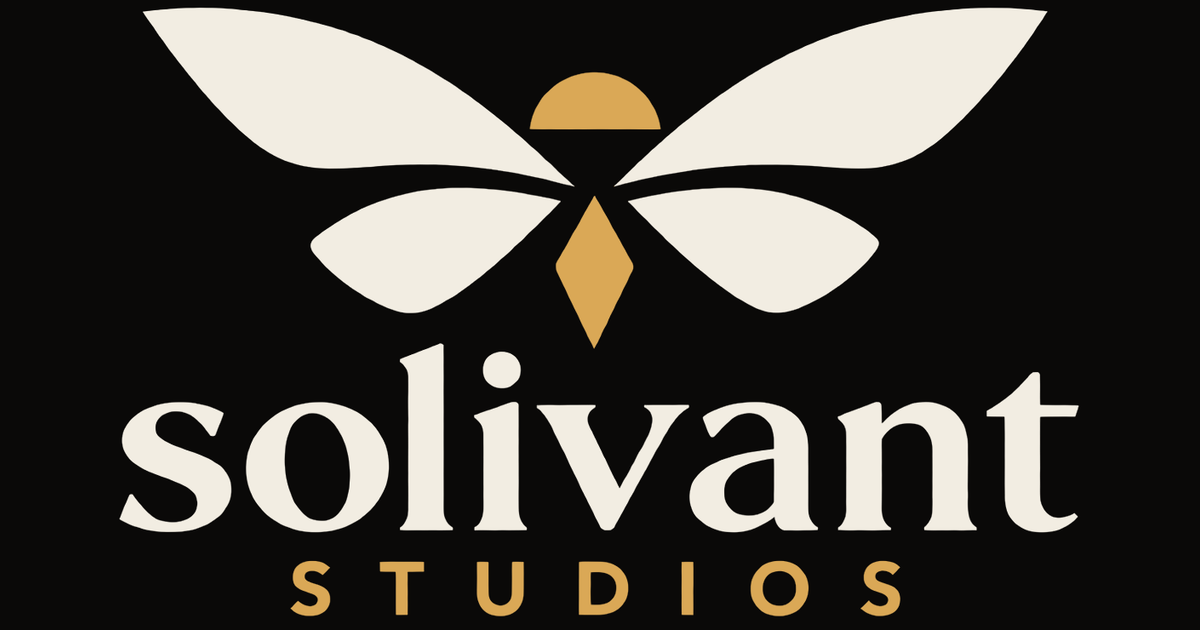
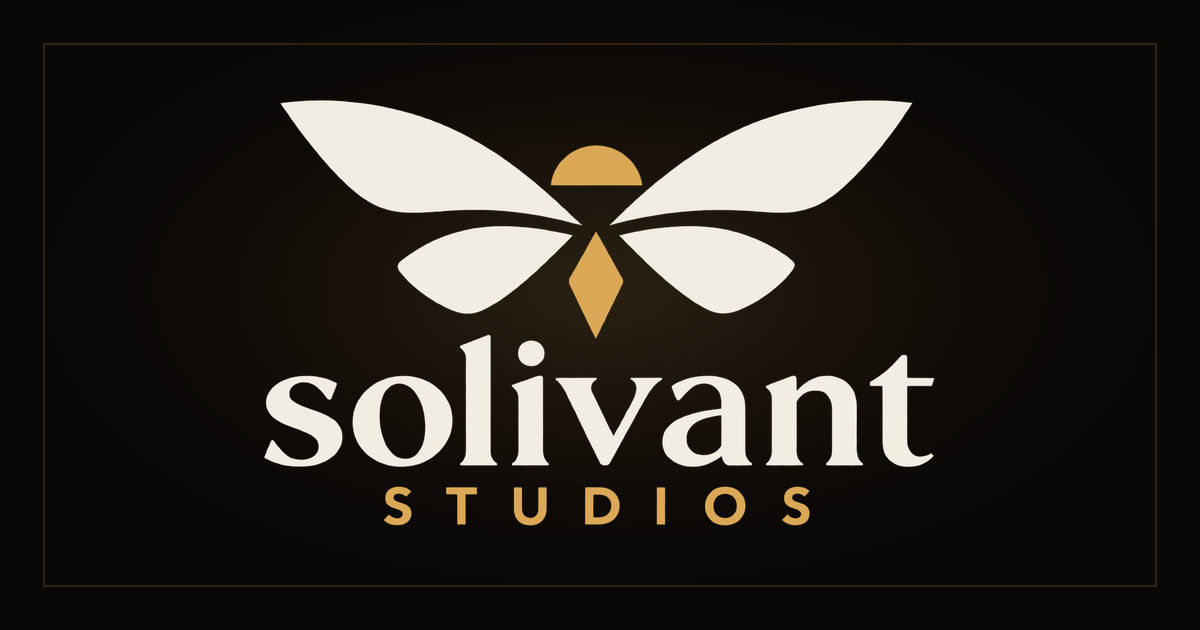
Self-host Cinzel, frame social card, refine Byzantium lede, and add plug-in social slots

Changed region(s): [[0.0308, 0.0, 0.9558, 0.8444], [0.0308, 0.8746, 0.9558, 0.9952]]

diff --git a/src/styles/global.css b/src/styles/global.css
@@ -1,10 +1,17 @@
+@font-face {
+  font-family: "Cinzel";
+  font-style: normal;
+  font-weight: 400;
+  font-display: swap;
+  src: url("/fonts/cinzel-latin-400.woff2") format("woff2");
+}
 :root {
   color-scheme: dark;
   --background: #090807;
   --surface: #12100e;
   --text: #f3efe6;
   --muted: #a69e92;
-  --sage: #ebe4d5;
+  --ivory: #ebe4d5;
   --gold: #d8a650;
   --gold-bright: #e8bc6a;
   --line: #29221b;
@@ -46,10 +53,10 @@ button { cursor: pointer; }
 a { color: inherit; text-underline-offset: .25em; }
 a:hover { text-decoration-thickness: 2px; }
 h1, h2, h3, p, figure { margin: 0; }
-h1, h2, h3 { font-weight: 400; line-height: 1.1; text-wrap: balance; font-kerning: normal; font-variant-ligatures: common-ligatures; }
-h1, h2 { font-family: var(--serif); letter-spacing: -.025em; }
-h1 { font-size: clamp(2.35rem, 4.2vw, 3.6rem); }
-h2 { font-size: clamp(1.75rem, 2.8vw, 2.45rem); }
+h1, h2, h3 { font-weight: 400; line-height: 1.12; text-wrap: balance; font-kerning: normal; font-variant-ligatures: common-ligatures; }
+h1, h2 { font-family: var(--serif); letter-spacing: .01em; }
+h1 { font-size: clamp(2.15rem, 3.8vw, 3.35rem); }
+h2 { font-size: clamp(1.6rem, 2.5vw, 2.2rem); }
 h3 { font-size: 1.35rem; }
 h1 em, h2 em { font-weight: 400; }
 ::selection { color: var(--background); background: var(--gold); }
@@ -82,8 +89,8 @@ h1 em, h2 em { font-weight: 400; }
   gap: 1.1rem;
   min-height: 3rem;
   padding: .75rem 1.4rem;
-  border: 1px solid var(--sage);
-  background: var(--sage);
+  border: 1px solid var(--ivory);
+  background: var(--ivory);
   color: #090807;
   font-size: .78rem;
   font-weight: 600;
@@ -153,9 +160,9 @@ h1 em, h2 em { font-weight: 400; }
   padding-block: clamp(3rem, 5vw, 4.5rem) clamp(2rem, 3.5vw, 3rem);
 }
 .hero h1 {
-  font-size: clamp(2.5rem, 4.6vw, 4rem);
-  line-height: 1.04;
-  letter-spacing: -.03em;
+  font-size: clamp(2.15rem, 4.2vw, 3.6rem);
+  line-height: 1.08;
+  letter-spacing: .015em;
   margin-top: .65rem;
 }
 
@@ -165,13 +172,13 @@ h1 em, h2 em { font-weight: 400; }
   --project-ember: rgba(145, 48, 22, 0.24);
   --project-ink: #f0d5a3;
 }
-[data-tone="sage"] {
+[data-tone="slate"] {
   --project-bg: #0c131a;
   --project-glow: rgba(132, 184, 222, 0.22);
   --project-ember: rgba(28, 62, 92, 0.22);
   --project-ink: #cce0f0;
 }
-[data-tone="silver"] {
+[data-tone="emerald"] {
   --project-bg: #081510;
   --project-glow: rgba(82, 196, 138, 0.25);
   --project-ember: rgba(18, 88, 56, 0.24);
@@ -222,8 +229,8 @@ h1 em, h2 em { font-weight: 400; }
 .flagship-spotlight__title {
   position: relative;
   z-index: 1;
-  font: 400 clamp(2.25rem, 4.5vw, 3.8rem)/1.02 var(--serif);
-  letter-spacing: -.03em;
+  font: 400 clamp(2rem, 4.1vw, 3.45rem)/1.05 var(--serif);
+  letter-spacing: .025em;
   text-transform: uppercase;
   margin-top: auto;
 }
@@ -234,8 +241,8 @@ h1 em, h2 em { font-weight: 400; }
   justify-content: center;
 }
 .flagship-spotlight__copy h2 {
-  font: 400 clamp(1.75rem, 2.6vw, 2.35rem)/1.12 var(--serif);
-  letter-spacing: -.025em;
+  font: 400 clamp(1.6rem, 2.4vw, 2.15rem)/1.15 var(--serif);
+  letter-spacing: .015em;
   margin-top: .6rem;
 }
 
@@ -247,8 +254,7 @@ h1 em, h2 em { font-weight: 400; }
 .section-heading { display: flex; justify-content: space-between; align-items: end; gap: 2rem; margin-bottom: 2.25rem; }
 .section-heading > p { color: var(--muted); font-size: .9rem; max-width: 26rem; }
 
-.project-grid { display: grid; grid-template-columns: repeat(2, minmax(0, 1fr)); gap: 2.75rem 1.75rem; }
-.project-grid--upcoming { grid-template-columns: repeat(3, minmax(0, 1fr)); gap: 2.25rem 1.5rem; }
+.project-grid { display: grid; grid-template-columns: repeat(3, minmax(0, 1fr)); gap: 2.25rem 1.5rem; }
 .project-card { min-width: 0; }
 .project-card__visual {
   position: relative;
@@ -309,14 +315,14 @@ h1 em, h2 em { font-weight: 400; }
 }
 .project-card__display {
   display: block;
-  font: 400 clamp(1.5rem, 2.2vw, 2.3rem)/1.08 var(--serif);
-  letter-spacing: -.025em;
+  font: 400 clamp(1.4rem, 2vw, 2.1rem)/1.08 var(--serif);
+  letter-spacing: .015em;
   white-space: nowrap;
   margin: auto 0 0;
 }
-[data-tone="ochre"] .project-card__display { text-transform: uppercase; letter-spacing: -.02em; }
-[data-tone="sage"] .project-card__display { font-family: ui-monospace, "SFMono-Regular", Consolas, monospace; font-size: clamp(1.4rem, 2vw, 2.1rem); letter-spacing: -.05em; }
-[data-tone="silver"] .project-card__display { font-style: italic; }
+[data-tone="ochre"] .project-card__display { text-transform: uppercase; letter-spacing: .03em; }
+[data-tone="slate"] .project-card__display { font-family: ui-monospace, "SFMono-Regular", Consolas, monospace; font-size: clamp(1.4rem, 2vw, 2.1rem); letter-spacing: -.05em; }
+[data-tone="emerald"] .project-card__display { font-family: "Iowan Old Style", "Palatino Linotype", "Book Antiqua", Palatino, Georgia, serif; font-style: italic; font-size: clamp(1.55rem, 2.25vw, 2.3rem); letter-spacing: -.01em; }
 
 .page-header { padding-block: clamp(3rem, 5.5vw, 5rem) clamp(2.25rem, 4vw, 3.25rem); }
 .page-header .lede { margin-top: 1.25rem; }
@@ -357,8 +363,8 @@ h1 em, h2 em { font-weight: 400; }
 .project-title-panel__name {
   position: relative;
   z-index: 1;
-  font: 400 clamp(2.1rem, 5vw, 4.25rem)/1.04 var(--serif);
-  letter-spacing: -.035em;
+  font: 400 clamp(1.95rem, 4.6vw, 3.9rem)/1.06 var(--serif);
+  letter-spacing: .025em;
   white-space: nowrap;
   margin-block: 1.75rem;
 }
@@ -379,6 +385,7 @@ h1 em, h2 em { font-weight: 400; }
 .project-cover img { width: 100%; border: 1px solid var(--line); }
 .project-cover figcaption, .gallery figcaption { font-size: .8rem; color: var(--muted); padding-top: .75rem; }
 .project-overview { display: grid; grid-template-columns: 1.4fr .7fr; gap: clamp(2.5rem, 6vw, 5.5rem); }
+.project-overview .lede { margin-top: 1rem; }
 .project-facts { margin: 0; padding: clamp(1.25rem, 2.2vw, 1.75rem); background: var(--surface); border: 1px solid var(--line); align-self: start; }
 .project-facts > div { padding-block: .8rem; border-bottom: 1px solid var(--line); }
 .project-facts > div:first-child { padding-top: 0; }
@@ -456,18 +463,41 @@ h1 em, h2 em { font-weight: 400; }
 .footer-wordmark { justify-self: start; width: 7.5rem; max-width: 100%; }
 .footer-wordmark img { height: auto; object-fit: contain; }
 .footer-top > p { color: var(--muted); font-size: .85rem; }
+.footer-links { display: flex; flex-direction: column; align-items: end; gap: .65rem; }
 .footer-top nav { display: flex; justify-content: end; flex-wrap: wrap; gap: .5rem 1.5rem; }
 .footer-top nav a { display: inline-flex; align-items: center; min-height: 2.75rem; font-size: .76rem; text-transform: uppercase; letter-spacing: .1em; text-decoration: none; }
 .footer-top nav a:hover { color: var(--gold); }
+.social-links { display: flex; flex-wrap: wrap; gap: .55rem; list-style: none; margin: 0; padding: 0; }
+.social-links--list { margin-top: 1rem; gap: .65rem; }
+.social-link {
+  display: inline-flex;
+  align-items: center;
+  justify-content: center;
+  gap: .55rem;
+  min-height: 2.5rem;
+  min-width: 2.5rem;
+  border: 1px solid var(--line);
+  background: rgba(255, 255, 255, 0.015);
+  color: var(--muted);
+  font-size: .72rem;
+  text-transform: uppercase;
+  letter-spacing: .1em;
+  text-decoration: none;
+  transition: color .2s, border-color .2s, background .2s;
+}
+.social-links--list .social-link { padding: .45rem .85rem; }
+.social-link:hover { color: var(--gold); border-color: var(--gold); background: rgba(216, 166, 80, 0.08); }
+.social-link__icon { width: 1rem; height: 1rem; flex-shrink: 0; }
 .footer-bottom { display: flex; flex-wrap: wrap; gap: .75rem 1.75rem; align-items: center; padding-block: 1.15rem; border-top: 1px solid var(--line); color: var(--muted); font-size: .7rem; }
 .footer-bottom p { margin-right: auto; }
 .footer-bottom a { display: inline-flex; align-items: center; gap: .75rem; min-height: 2.75rem; text-decoration: none; }
 
 @media (max-width: 64rem) {
-  .flagship-spotlight, .project-grid--upcoming { grid-template-columns: 1fr; }
+  .flagship-spotlight, .project-grid { grid-template-columns: 1fr; }
   .flagship-spotlight__visual { min-height: 17rem; border-right: 0; border-bottom: 1px solid rgba(216, 166, 80, 0.2); }
   .footer-top { grid-template-columns: 1fr 1fr; }
-  .footer-top nav { grid-column: 1 / -1; justify-content: start; }
+  .footer-links { grid-column: 1 / -1; align-items: start; }
+  .footer-top nav { justify-content: start; }
 }
 @media (max-width: 48rem) {
   .hero { padding-block: 2.5rem 2rem; }
@@ -488,14 +518,14 @@ h1 em, h2 em { font-weight: 400; }
   .project-grid, .gallery { grid-template-columns: 1fr; }
   .project-card__visual { aspect-ratio: 16/10; }
   .project-card__type { padding: 1.25rem; }
-  .project-card__display { font-size: clamp(1.65rem, 7vw, 2.5rem); }
-  [data-tone="sage"] .project-card__display { font-size: clamp(1.55rem, 6.5vw, 2.3rem); }
+  .project-card__display { font-size: clamp(1.5rem, 6.5vw, 2.3rem); }
+  [data-tone="slate"] .project-card__display { font-size: clamp(1.45rem, 6.2vw, 2.2rem); }
   .footer-top { grid-template-columns: 1fr; padding-block: 2.5rem; }
-  .footer-top nav { grid-column: auto; }
+  .footer-links { grid-column: auto; }
   .footer-bottom p { width: 100%; }
   .project-title-panel__top, .project-title-panel p { flex-direction: column; gap: .25rem; }
   .project-title-panel p span { text-align: left; }
-  .project-title-panel__name { font-size: clamp(1.75rem, 7.5vw, 3rem); }
+  .flagship-spotlight__title, .project-title-panel__name { font-size: clamp(1.45rem, 6.8vw, 2.75rem); }
 }
 @media (prefers-reduced-motion: reduce) {
   html { scroll-behavior: auto; }

diff --git a/src/data/projects.ts b/src/data/projects.ts
@@ -8,8 +8,9 @@ export type Project = {
   title: string;
   workingTitle: boolean;
   status: "In development" | "Upcoming" | "Coming soon" | "Available now";
-  tone: "ochre" | "sage" | "silver" | "clay";
+  tone: "ochre" | "slate" | "clay" | "emerald";
   summary?: string;
+  lede?: string;
   description?: string[];
   platforms?: string[];
   release?: string;
@@ -26,14 +27,21 @@ export const projects: Project[] = defineProjects([
     slug: "byzantium", title: "Byzantium", workingTitle: false,
     status: "In development", tone: "ochre",
     summary: "Around the year 1000, Constantinople is the greatest city in the Christian world, but the Roman Empire is a shadow of its former self. Engulfed in internal struggle and looming threats from outside, the emperor himself has called upon you to serve. For Byzantium.",
+    lede: "Set across the contested frontiers of the Eastern Roman Empire at the turn of the first millennium, Byzantium places you in command of campaigns where fortification, siegecraft, and battlefield discipline decide the survival of imperial territory.",
     description: [
-      "Raise timber and stone fortifications, engineer siege weapons, and command disciplined battlefield formations across the Byzantine frontier.",
+      "Raise timber and stone fortifications, engineer siege weapons, and command disciplined battlefield formations from frontier strongholds to besieged city walls.",
       "Built on hyperoptimized custom engine technology to push hardware to its limits, Byzantium delivers large-scale physical realism while remaining accessible across a wide range of devices.",
     ],
+    // Uncomment as channels and storefront pages go live:
+    // trailer: { label: "Watch Trailer", href: "https://www.youtube.com/watch?v=..." },
+    // links: [
+    //   { label: "Wishlist on Steam", href: "https://store.steampowered.com/app/..." },
+    //   { label: "Join Discord", href: "https://discord.gg/..." },
+    // ],
   },
   {
     slug: "hexagonal", title: "Hexagonal", workingTitle: true,
-    status: "Upcoming", tone: "sage",
+    status: "Upcoming", tone: "slate",
   },
   {
     slug: "cubes", title: "Cubes", workingTitle: true,
@@ -41,6 +49,6 @@ export const projects: Project[] = defineProjects([
   },
   {
     slug: "horizon", title: "Horizon", workingTitle: true,
-    status: "Upcoming", tone: "silver",
+    status: "Upcoming", tone: "emerald",
   },
 ]);

diff --git a/src/data/site.ts b/src/data/site.ts
@@ -1,3 +1,23 @@
+import { defineSocials } from "../lib/content.mjs";
+
+export type SocialPlatform =
+  | "x"
+  | "youtube"
+  | "discord"
+  | "steam"
+  | "instagram"
+  | "bluesky"
+  | "reddit"
+  | "tiktok"
+  | "linkedin"
+  | "github";
+
+export type SocialLink = {
+  platform: SocialPlatform;
+  label: string;
+  href: string;
+};
+
 export const settings = __SITE_SETTINGS__;
 export const site = {
   name: "Solivant Studios",
@@ -7,4 +27,18 @@ export const site = {
     { label: "Byzantium", href: "/projects/byzantium/" },
     { label: "Contact", href: "/contact/" },
   ],
+  // Paste your full HTTPS profile URL into any slot below to publish it across the
+  // footer, Contact page, Open Graph metadata, and Organization JSON-LD schema.
+  // Leave blank ("") until the account is live.
+  socials: defineSocials({
+    x: "",         // e.g. "https://x.com/solivantstudios"
+    youtube: "",   // e.g. "https://www.youtube.com/@solivantstudios"
+    discord: "",   // e.g. "https://discord.gg/..."
+    steam: "",     // e.g. "https://store.steampowered.com/developer/solivantstudios"
+    instagram: "", // e.g. "https://www.instagram.com/solivantstudios"
+    bluesky: "",   // e.g. "https://bsky.app/profile/solivantstudios.com"
+    reddit: "",    // e.g. "https://www.reddit.com/r/..."
+    tiktok: "",    // e.g. "https://www.tiktok.com/@solivantstudios"
+    linkedin: "",  // e.g. "https://www.linkedin.com/company/solivant-studios"
+  }) as SocialLink[],
 } as const;

diff --git a/README.md b/README.md
@@ -31,8 +31,8 @@ npm run preview:standalone  # self-contained offline review file at ../solivant-
 ## Architecture & Brand
 
 - Palette: Obsidian (`#090807`), Smoked Basalt (`#12100e`), Burnished Imperial Gold (`#d8a650`), and Warm Ivory (`#f3efe6`).
-- `src/data/projects.ts`: Project metadata and optional media/store links.
-- `src/data/site.ts`: Studio metadata and primary navigation (`Byzantium`, `Contact`).
+- `src/data/projects.ts`: Project metadata and optional media, trailer, and storefront/community links.
+- `src/data/site.ts`: Studio metadata, primary navigation (`Byzantium`, `Contact`), and plug-in `socials` slots (`x`, `youtube`, `discord`, `steam`, `instagram`, `bluesky`, `reddit`, `tiktok`, `linkedin`, `github`). Paste any HTTPS profile URL into `socials` to publish it across the footer, Contact page, Open Graph tags, and `Organization` JSON-LD `sameAs` schema.
 - `src/pages/privacy.astro`, `src/pages/terms.astro`, `src/pages/support.astro`: Apple App Store (iOS/macOS) and Steam compliant legal and player support pages.
 - `scripts/export-brand.mjs`: Mechanical exports of the Sun Moth branding to `public/` (`favicon.ico`, `brand/logo-gold.webp`, `brand/favicon-gold.png`, `brand/icon-512.png`, `brand/apple-touch-icon.png`, `brand/social.png`, `brand/social-byzantium.png`).
 
